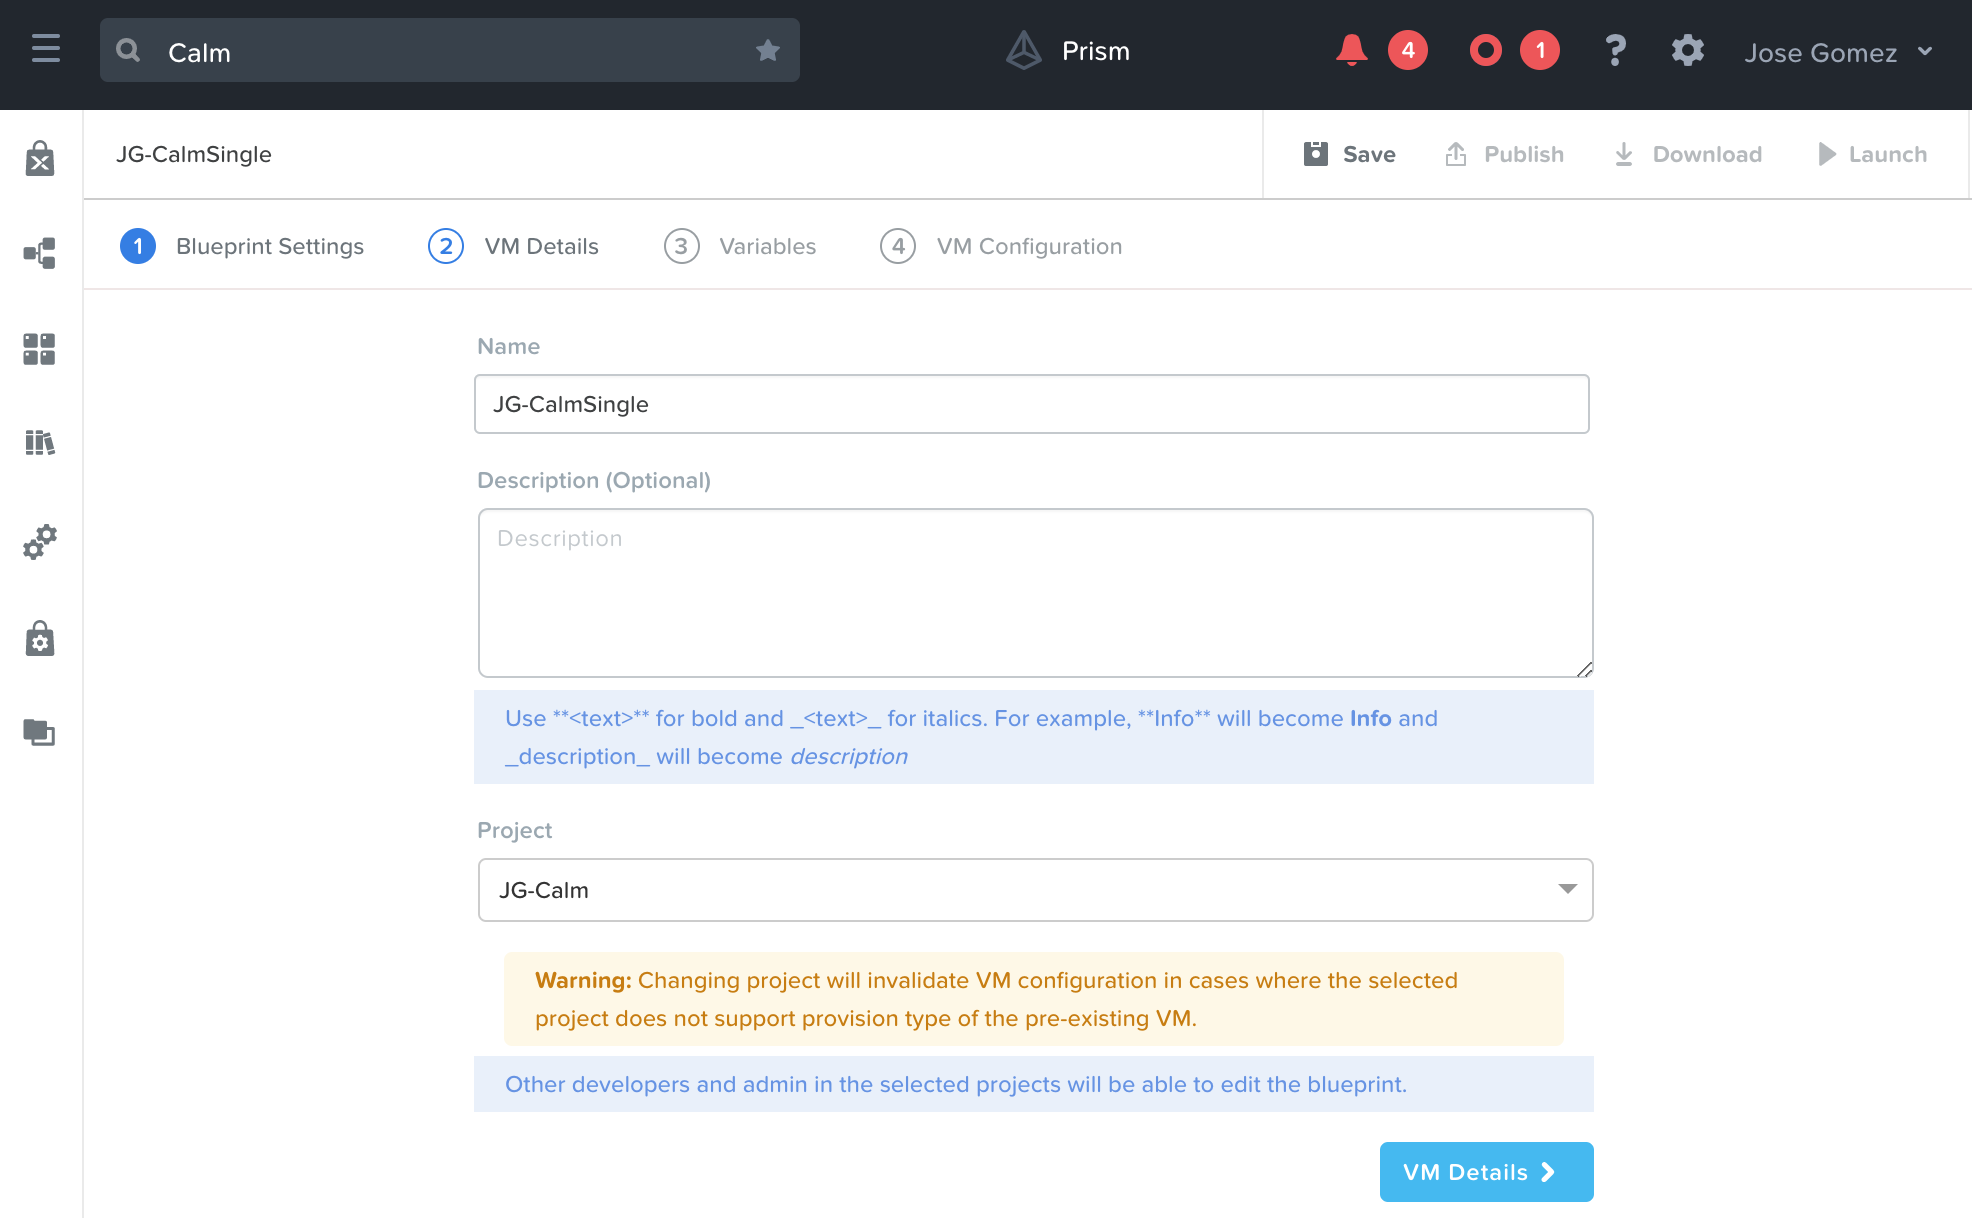
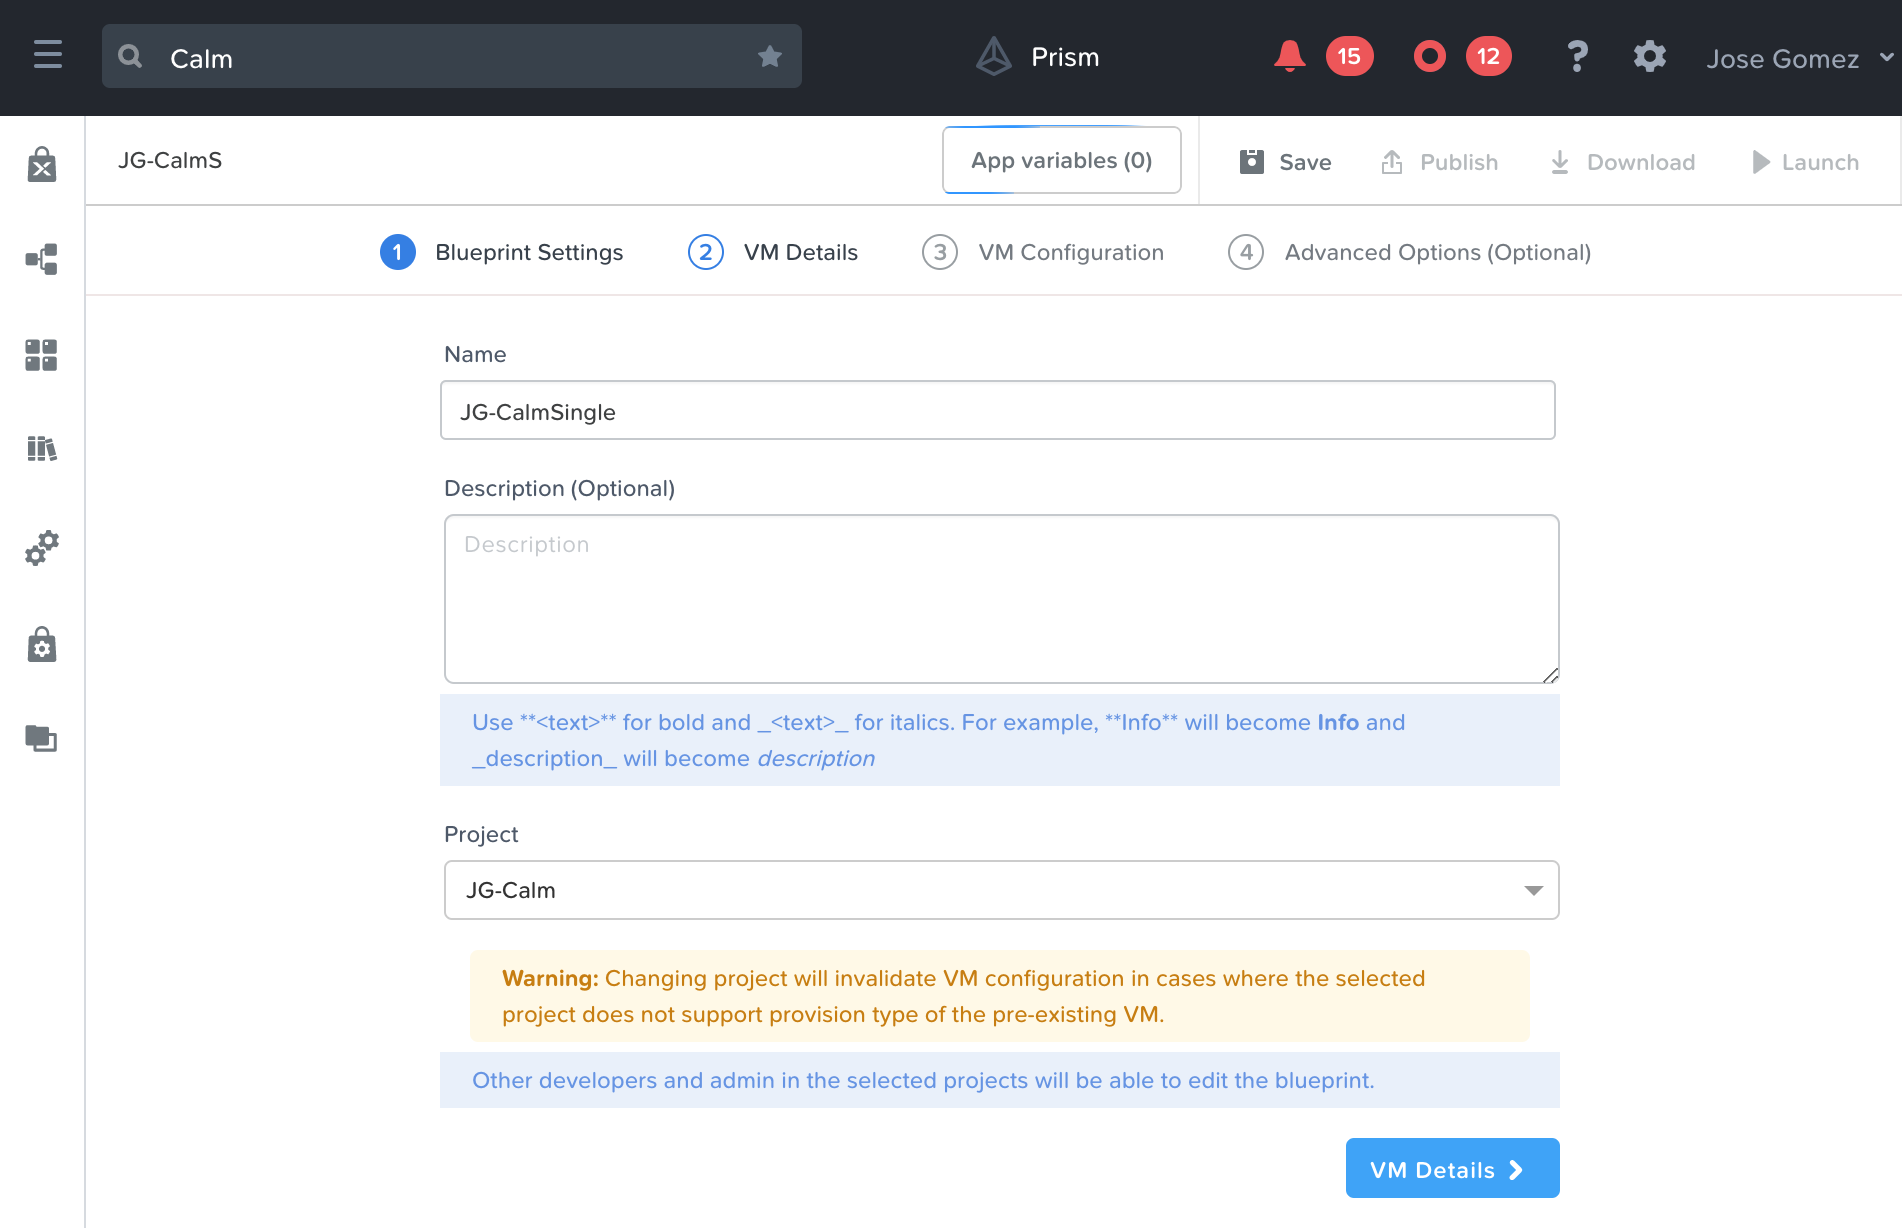
Update: New SingleVM interface

diff --git a/calm_singlevm_blueprint/calm_singlevm_blueprint.rst b/calm_singlevm_blueprint/calm_singlevm_blueprint.rst
@@ -1,8 +1,8 @@
 .. _calm_singlevm_blueprint:
 
-------------
+------------------------------------------------------
 Infrastructure as a Service (Calm Single VM Blueprint)
-------------
+------------------------------------------------------
 
 .. note::
 
@@ -11,10 +11,12 @@ Infrastructure as a Service (Calm Single VM Blueprint)
 Overview
 ++++++++
 
-Creating Single VM Blueprint (CentOS)
-++++++++++++++++++++++++++
+The most common use case for starting a private cloud is Infrastructure as a Service. With Calm this can be done extremely quickly, providing the agility that IT is seeking and the time to market for your business.
 
-In this exercise you will explore the basics of Nutanix Calm by building and deploying a Blueprint that installs and configures a single service, MySQL, on a CentOS image.
+Creating Single VM Blueprint (CentOS)
++++++++++++++++++++++++++++++++++++++
+
+In this exercise you will explore the basics of Nutanix Calm by building and deploying a Blueprint that provides IaaS with a CentOS image.
 
 #. Within the Calm UI, select |blueprints| **Blueprints** in the left hand toolbar to view and manage Calm blueprints.
 
@@ -41,20 +43,6 @@ In this exercise you will explore the basics of Nutanix Calm by building and dep
 
    .. figure:: images/calm_singlevm_02.png
 
-#. Click **Variables >**
-
-#. Add the following variables (**Runtime** is specified by toggling the **Running Man** icon to Blue):
-
-   +------------------------+-------------------------------+------------+-------------+
-   | **Variable Name**      | **Data Type** | **Value**     | **Secret** | **Runtime** |
-   +------------------------+-------------------------------+------------+-------------+
-   | USER_INITIALS          | String        | xyz           |            |      X      |
-   +------------------------+-------------------------------+------------+-------------+
-   | PASSWORD               | String        |               |     X      |      X      |
-   +------------------------+-------------------------------+------------+-------------+
-
-   .. figure:: images/calm_singlevm_03.png
-
 #. Click **VM Configuration >**
 
 #. Fill out the following fields:
@@ -62,9 +50,9 @@ In this exercise you will explore the basics of Nutanix Calm by building and dep
    - **VM Name** - @@{USER_INITIALS}@@-centos-@@{calm_time}@@
 
    .. note::
-      This defines the name of the virtual machine within Nutanix. We are using macros (case sensitive) to use the variables values as inputs. This approach can be used to meet your naming convention.
+      This defines the name of the virtual machine within Nutanix. We are using macros (case sensitive) to use the variables values as inputs. This approach can be used to meet your naming convention. Macros are defined using **@@{}@@**
 
-   - **vCPUs** - *2*
+   - **vCPUs** - *2* - Enable *runtime* (Runtime is specified by toggling the Running Man icon to Blue)
    - **Cores per vCPU** - *1*
    - **Memory (GiB)** - *4*
    - Select **Guest Customization**
@@ -94,6 +82,22 @@ In this exercise you will explore the basics of Nutanix Calm by building and dep
    - **NIC 1** - Primary
    
    .. figure:: images/calm_singlevm_05b.png
+
+#. Click **App variables (0) >**
+
+#. Add the following variables (**Runtime** is specified by toggling the **Running Man** icon to Blue):
+
+   +------------------------+-------------------------------+------------+-------------+
+   | **Variable Name**      | **Data Type** | **Value**     | **Secret** | **Runtime** |
+   +------------------------+-------------------------------+------------+-------------+
+   | USER_INITIALS          | String        | xyz           |            |      X      |
+   +------------------------+-------------------------------+------------+-------------+
+   | PASSWORD               | String        |               |     X      |      X      |
+   +------------------------+-------------------------------+------------+-------------+
+
+   .. figure:: images/calm_singlevm_03.png
+
+#. Click **Done**
 
 #. Click **Save**
 

diff --git a/calm_projects/calm_projects.rst b/calm_projects/calm_projects.rst
@@ -69,7 +69,7 @@ Projects are the logical construct that integrate Calm with Nutanix's native Sel
 
 .. note::
 
-  Click `here <https://portal.nutanix.com/#/page/docs/details?targetId=Nutanix-Calm-Admin-Operations-Guide-v271:nuc-roles-responsibility-matrix-c.html>`_ to view the complete matrix of default Calm roles and associated permissions.
+  Click `here <https://portal.nutanix.com/#/page/docs/details?targetId=Nutanix-Calm-Admin-Operations-Guide-v297:nuc-roles-responsibility-matrix-c.html>`_ to view the complete matrix of default Calm roles and associated permissions.
 
 Takeaways
 +++++++++
